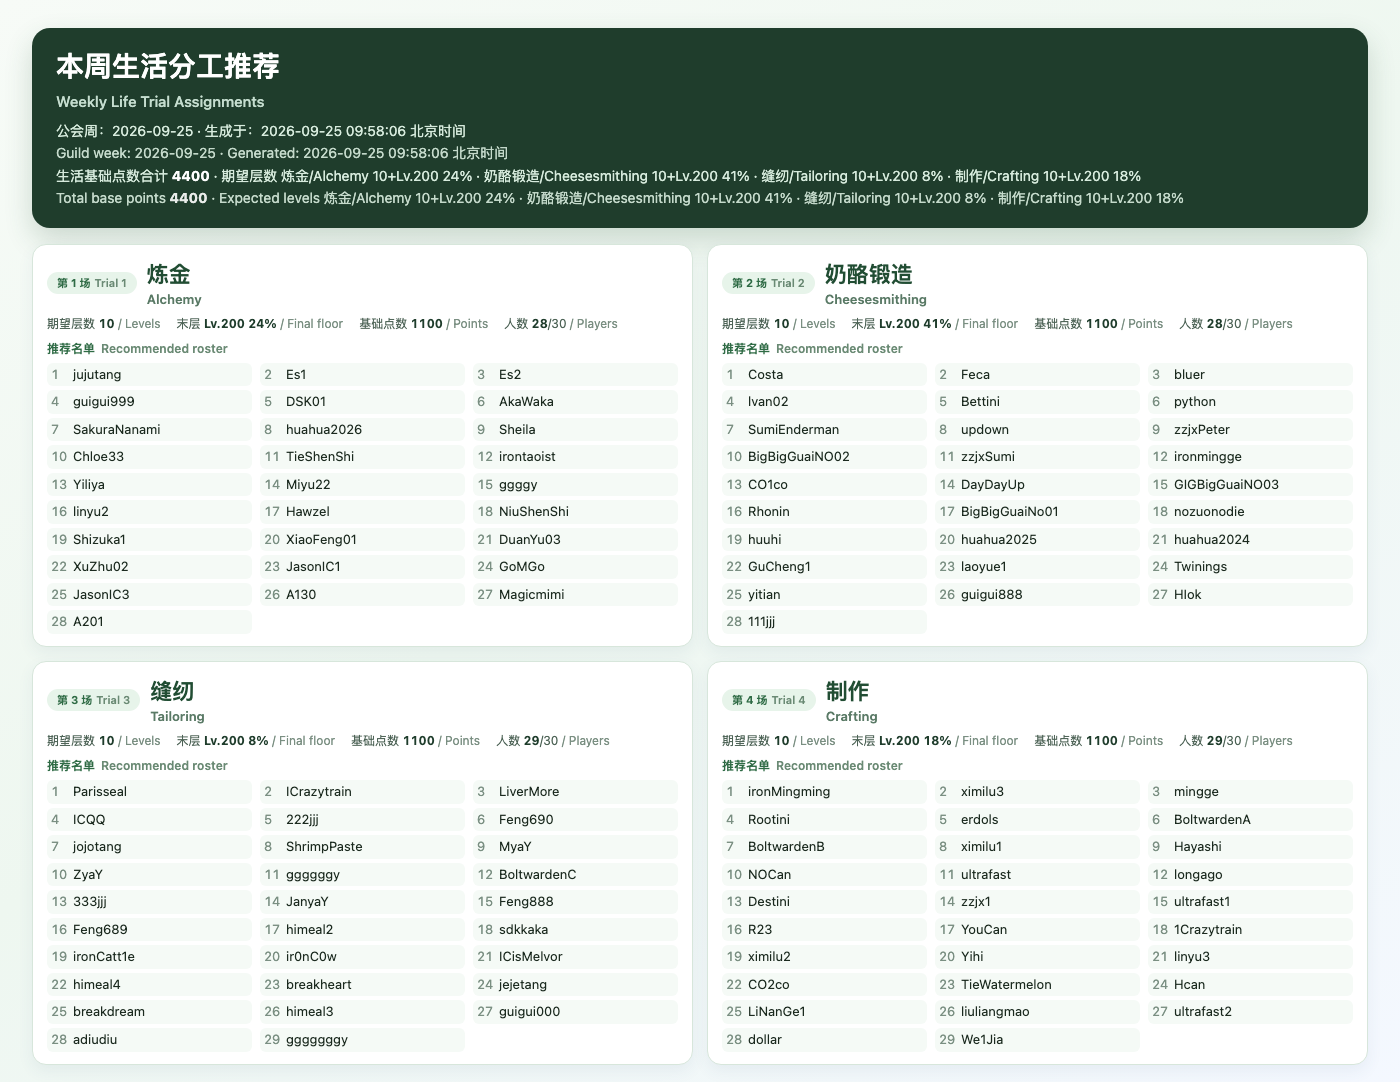
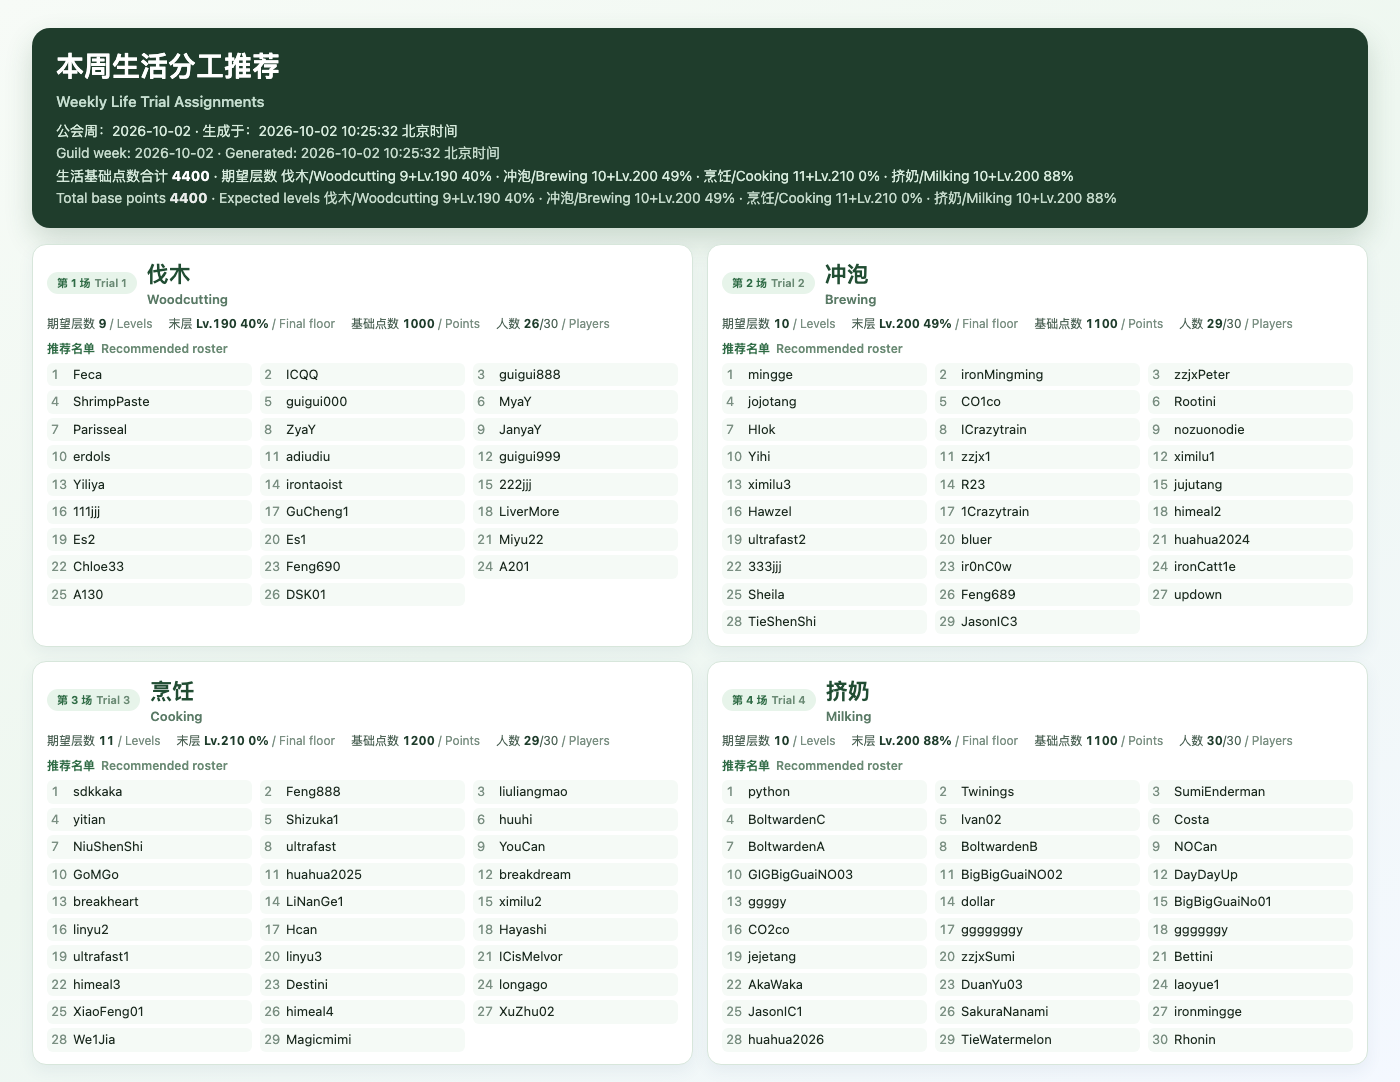
chore: refresh life assignment report (2026-10-02T00:00:00.000Z, 4400 pts)

diff --git a/reports/WI/combat-assignment/index.html b/reports/WI/combat-assignment/index.html
@@ -132,7 +132,7 @@
     <div class="header-text">
       <h1><span class="i18n" data-zh="本周分工" data-en="Weekly Assignments">本周分工</span></h1>
       <div class="meta">
-        <span class="i18n" data-zh="战斗方案：" data-en="Combat plan: ">战斗方案：</span>2026-09-25 09:58:06 北京时间
+        <span class="i18n" data-zh="战斗方案：" data-en="Combat plan: ">战斗方案：</span>2026-10-02 10:25:32 北京时间
         <span class="i18n" data-zh=" · 点选下方条目浏览生活/战斗图片" data-en=" · Pick a tab to browse life/combat images"> · 点选下方条目浏览生活/战斗图片</span>
       </div>
     </div>

diff --git a/reports/WI/life-assignment/README.md b/reports/WI/life-assignment/README.md
@@ -1,7 +1,7 @@
 # 本周生活分工
 
-- 公会周：`2026-09-25T00:00:00.000Z`
-- 生成时间：`2026-09-25T01:58:06.663Z`
+- 公会周：`2026-10-02T00:00:00.000Z`
+- 生成时间：`2026-10-02T02:25:32.524Z`
 - 基础点数合计：`4400`
 
 图片：https://raw.githubusercontent.com/xiahuaaaa/mwi-guild-trial-helper/main/reports/WI/life-assignment/latest.png
